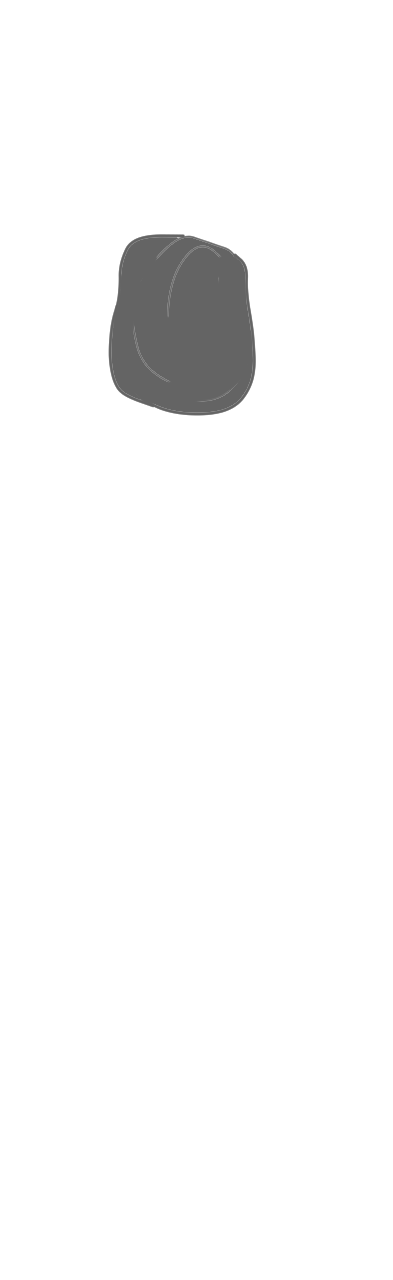
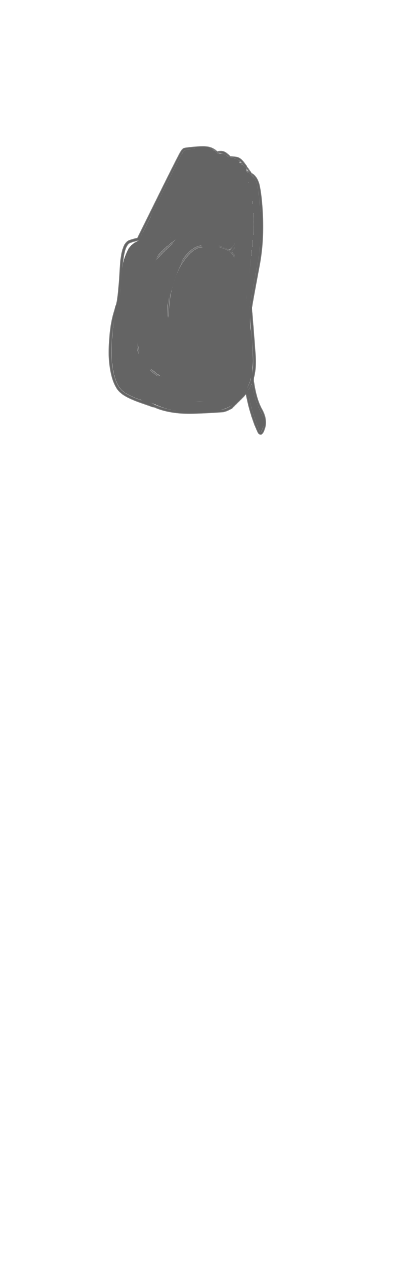
improved locs

diff --git a/index.html b/index.html
@@ -93,7 +93,6 @@
                 <div class="col"><div x-data="dropdown('Eye Shape','current_eyetype','simple')" x-bind="dropbtn" ></div></div>
                 <div class="col"><div x-data="dropdown('Ears','ears','body')" x-bind="dropbtn" ></div></div>
                 <div class="col"><div x-data="dropdown('Complexion','complexion','body')" x-bind="dropbtn" ></div></div>
-                <!--<div class="col"><div x-data="dropdown('Height','size','simple')" x-bind="dropbtn" ></div></div>-->
               </div>
 
             </div>
@@ -169,6 +168,12 @@
                 <div class="col"><button type="button" class="btn btn-primary" x-on:click="$store.alpineData.randomiseAll(0);setVariables(Alpine.store('alpineData'));">Androgynous</button></div>
             
               </div> 
+            </div>
+            <div x-show="$store.alpineData.currently_editing === 6" >
+              <h4>Display</h4>
+              <div class="row row-cols-2 gy-3">
+            <div class="col"><div x-data="dropdown('Height','size','simple')" x-bind="dropbtn" ></div></div>
+          </div>
             </div>
         </div> 
     

diff --git a/code/setup.js b/code/setup.js
@@ -38,7 +38,7 @@ const canvas_height = 800;
 
 const imageType_list =["Head","Expression","Outfit"];
 
-const editing_list =["Colouring","Body/Hair","Clothes", "Accessory", "Expression","Randomise"];
+const editing_list =["Colouring","Body/Hair","Clothes", "Accessory", "Expression","Randomise","Display"];
 
 const panel_list = ["Neutral", "Happy", "Sad", "Angry","Surprised","Embarassed","Scared",'Annoyed',"Wry"];
 

diff --git a/code/generate_images.py b/code/generate_images.py
@@ -869,7 +869,7 @@ def runStuff():
     # "coat","coat_sleeves","coat_dec","coat_back"
     #"top","top_sleeves","top_dec","top_collar"
     for c in closet:
-        if c.name in ["hijab_front"]:
+        if c.name in ["sidelocks", "fringe", "hair_front","hair_middle", "hair_back",]:
             process_portrait_part(c)
     makeWinks()
     #makeStubble() 
